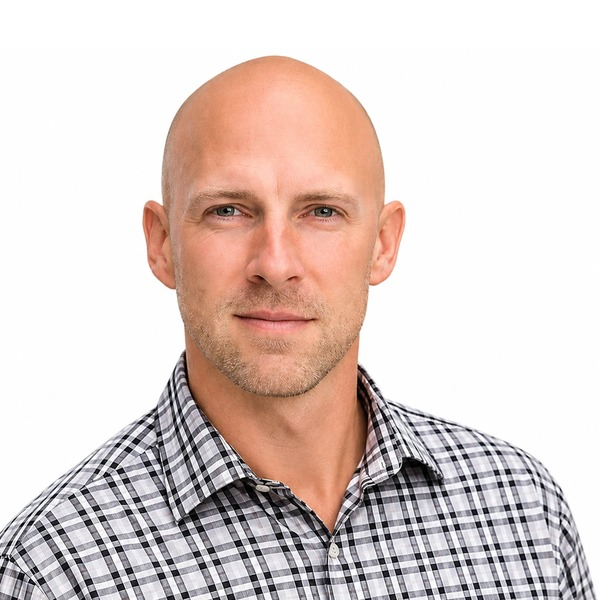
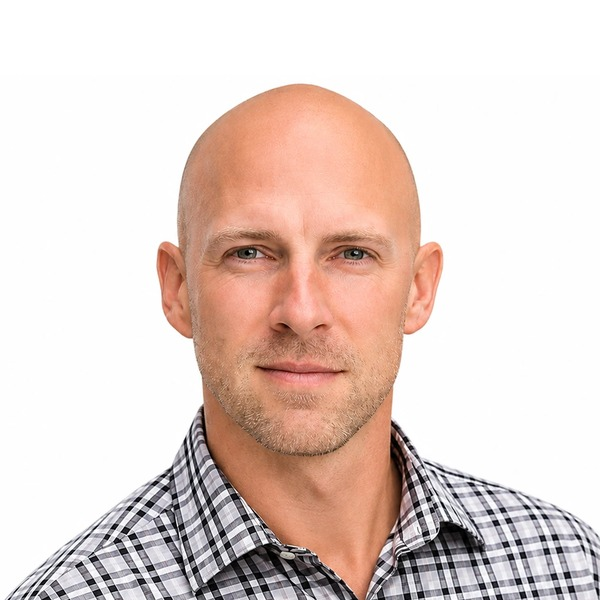
v7: headshots cropped to one rule; garage, pest and landscaping slides reworded; system headline breaks after 'tactic.'
Claude-Session: https://claude.ai/code/session_012Li8LDVWvHRkvw2Mk1N3ga

diff --git a/src/components/v7/behavior/valley.js b/src/components/v7/behavior/valley.js
@@ -10,10 +10,10 @@ export function mountValley() {
     'Plumbing': { kw: ['plumber near me','water heater replacement phoenix','slab leak repair chandler','drain cleaning scottsdale','emergency plumber gilbert'], season: 'All year, spikes in winter', seasonP: 'Water heaters fail when the first cold snap hits. Budgets hold steady with a December and January lift.', curve: [85,80,70,65,65,70,75,75,70,70,85,100], job: '$1,900', jobP: 'Illustrative average across repairs and water heater replacements. The CRM records the real number per job.', photo: P.plumbing, h2: 'A burst water line does not wait for a callback.', p: 'The homeowner is standing in water. The company that answers in less than a minute gets the job, and the review.' },
     'Electrical': { kw: ['electrician near me','ev charger installation phoenix','panel upgrade scottsdale','electrician mesa az','ceiling fan install gilbert'], season: 'Spring, plus EV demand all year', seasonP: 'Panel upgrades and EV chargers run steadily. Monsoon season brings surge and outage calls in July and August.', curve: [60,62,75,80,78,70,90,92,70,65,60,58], job: '$2,400', jobP: 'Illustrative average across panel upgrades, EV chargers and repairs.', photo: P.electrical, h2: 'The homeowner wants a charger installed before the car arrives Friday.', p: 'They searched, they asked ChatGPT, they called two companies. The one with the structured site and the 38-second reply gets the Friday slot.' },
     'Roofing': { kw: ['roof repair phoenix','roofing company near me','monsoon roof damage mesa','tile roof replacement scottsdale','roof inspection chandler'], season: 'July to September, after monsoon', seasonP: 'Monsoon damage drives the busiest weeks of the year. Budgets rise in July and the review pipeline runs hot through September.', curve: [45,45,55,60,55,60,100,100,90,65,50,45], job: '$14,500', jobP: 'Illustrative average for a replacement. Repairs are smaller and more frequent.', photo: P.roofing, h2: 'After the monsoon, every roofer in the Valley is busy. The first one to answer wins.', p: 'Storm season is a race. Tracked numbers, an AI receptionist, and a text in under a minute means the inspection is booked before the competitor hears the voicemail.' },
-    'Garage door': { kw: ['garage door repair near me','garage door spring replacement phoenix','garage door opener install mesa','garage door company chandler'], season: 'All year', seasonP: 'Springs break on their own schedule. Spend stays level with a small lift around the holidays.', curve: [70,70,70,68,70,72,70,70,70,72,80,85], job: '$900', jobP: 'Illustrative average across spring, opener and panel jobs.', photo: P.door, h2: 'The car is stuck in the garage. They are calling right now.', p: 'Same-day is the whole sale. Answer first, book the slot, send the text with the tech’s name.' },
-    'Pest control': { kw: ['pest control phoenix','scorpion control scottsdale','termite inspection mesa','pest control near me'], season: 'March to October', seasonP: 'Scorpion and termite season. Recurring plans mean the first job is worth a year of jobs.', curve: [40,45,70,85,95,100,100,95,85,70,45,40], job: '$480 per year', jobP: 'Illustrative annual value of a quarterly plan. Recurring revenue changes the math on every lead.', photo: P.nb, h2: 'One scorpion in the bathtub and they are searching tonight.', p: 'Recurring plans are won on the first reply. The AI books the inspection, the CRM runs the renewal.' },
+    'Garage door': { kw: ['garage door repair near me','garage door spring replacement phoenix','garage door opener install mesa','garage door company chandler'], season: 'All year', seasonP: 'Springs break on their own schedule. Spend stays level with a small lift around the holidays.', curve: [70,70,70,68,70,72,70,70,70,72,80,85], job: '$900', jobP: 'Illustrative average across spring, opener and panel jobs.', photo: P.door, h2: 'The car is stuck in the garage. They are calling right now.', p: 'Same-day is the whole sale. Answer first, book the slot, then send the text with the tech’s name.' },
+    'Pest control': { kw: ['pest control phoenix','scorpion control scottsdale','termite inspection mesa','pest control near me'], season: 'March to October', seasonP: 'Scorpion and termite season. Recurring plans mean the first job is worth a year of jobs.', curve: [40,45,70,85,95,100,100,95,85,70,45,40], job: '$480 per year', jobP: 'Illustrative annual value of a quarterly plan. Recurring revenue changes the math on every lead.', photo: P.nb, h2: 'One scorpion in the bathtub and they are searching tonight.', p: 'Recurring plans are won on the first reply. The AI books the inspection, then the CRM runs the recurring renewals.' },
     'Painting': { kw: ['house painters near me','exterior painting phoenix','cabinet painting scottsdale','interior painter gilbert'], season: 'October to April', seasonP: 'Exterior work runs in the cool months; interiors fill the summer.', curve: [95,90,85,70,55,40,35,35,45,80,95,100], job: '$3,800', jobP: 'Illustrative average for an exterior repaint.', photo: P.nb, h2: 'The paint is peeling and the listing photos are on Saturday.', p: 'A homeowner with a deadline calls three painters. The one who answers, provides a quote, and books the walkthrough tonight gets the job. The neighbors see the sign in the yard and call for estimates too.' },
-    'Landscaping': { kw: ['landscaper near me','desert landscaping phoenix','artificial turf install gilbert','irrigation repair chandler'], season: 'February to May, and October', seasonP: 'Planting and installs run spring and fall. Maintenance plans carry the summer.', curve: [60,80,95,100,85,55,45,45,60,90,75,55], job: '$3,200', jobP: 'Illustrative average for an install. Maintenance plans are recurring.', photo: P.nb, h2: 'They want the yard done before the party in April.', p: 'Spring is a race for installs. The first company with a design slot wins the project and the maintenance plan after it.' }
+    'Landscaping': { kw: ['landscaper near me','desert landscaping phoenix','artificial turf install gilbert','irrigation repair chandler'], season: 'February to May, and October', seasonP: 'Planting and installs run spring and fall. Maintenance plans carry the summer.', curve: [60,80,95,100,85,55,45,45,60,90,75,55], job: '$3,200', jobP: 'Illustrative average for an install. Maintenance plans are recurring.', photo: P.nb, h2: 'They want the yard done before the party in April.', p: 'Spring is a race for backyard remodels. The first company with a design slot wins the project and the maintenance plan after it.' }
   };
   var ORDER = ['HVAC', 'Plumbing', 'Electrical', 'Roofing', 'Painting', 'Garage door', 'Pest control', 'Landscaping'];
   var state = { trade: 'HVAC' };

diff --git a/src/components/v8/full-system.tsx b/src/components/v8/full-system.tsx
@@ -32,7 +32,7 @@ export function FullSystem({ base, id = "system", photo, detailed }: { base: str
   return (
 <section id={id} className="feature"><div className="wrap">
   <p className="kicker">The full system</p>
-  <h2>Most agencies sell you one tactic. We run the whole thing.</h2>
+  <h2>Most agencies sell you one tactic.<br />We run the whole thing.</h2>
   <p className="sub">Phones, website, search, ads, reviews, the CRM and the AI that answers for you, built as one system and run by one team. Pick the pieces you need; most owners want all of it.</p>
   <div className="sysgrid">
     {groups.map(([name, blurb, items]) => (
